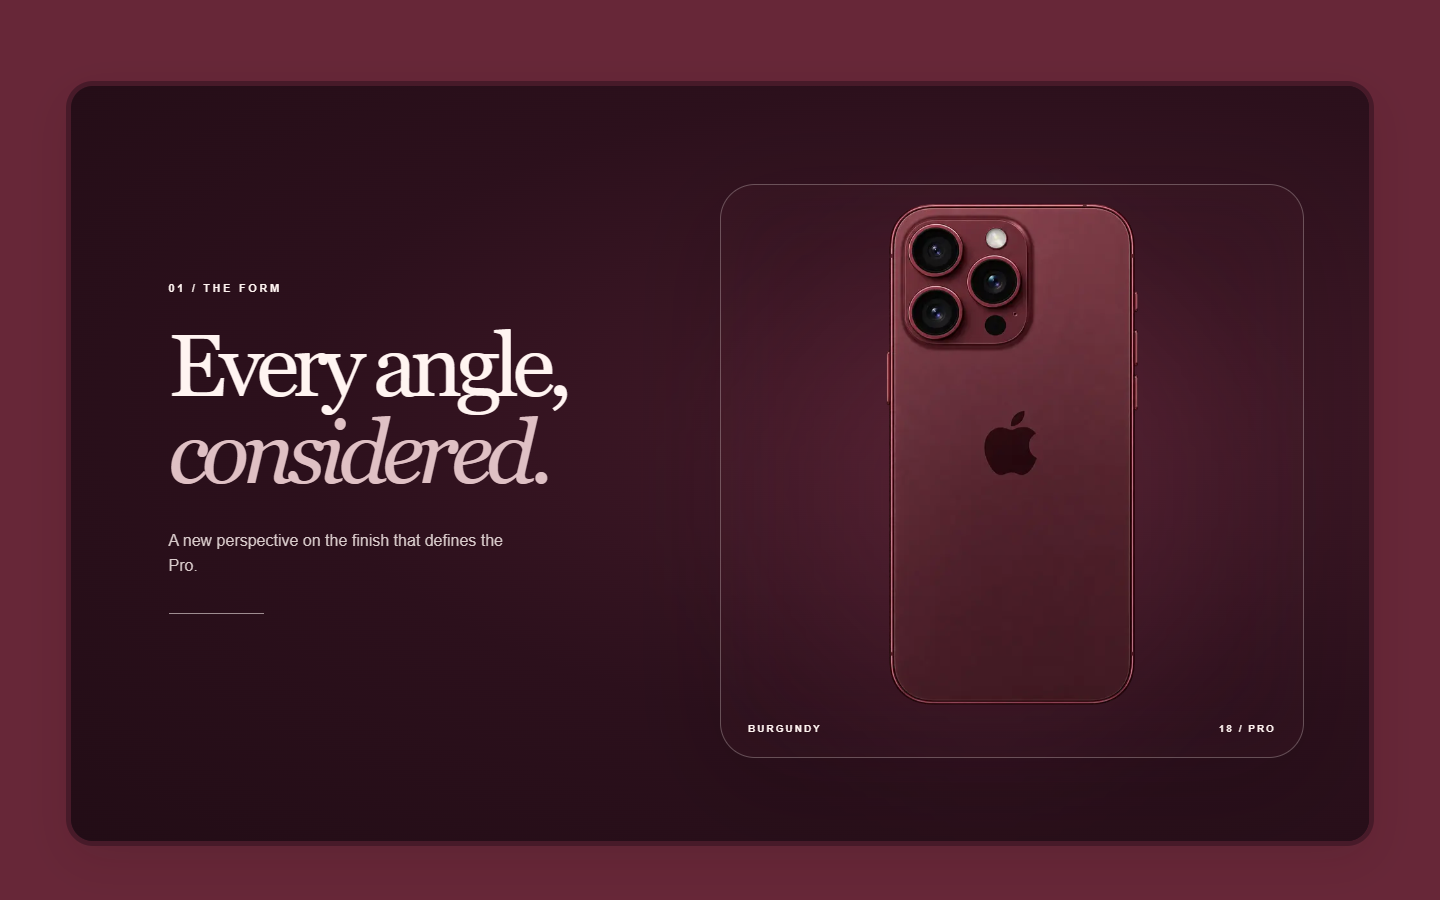
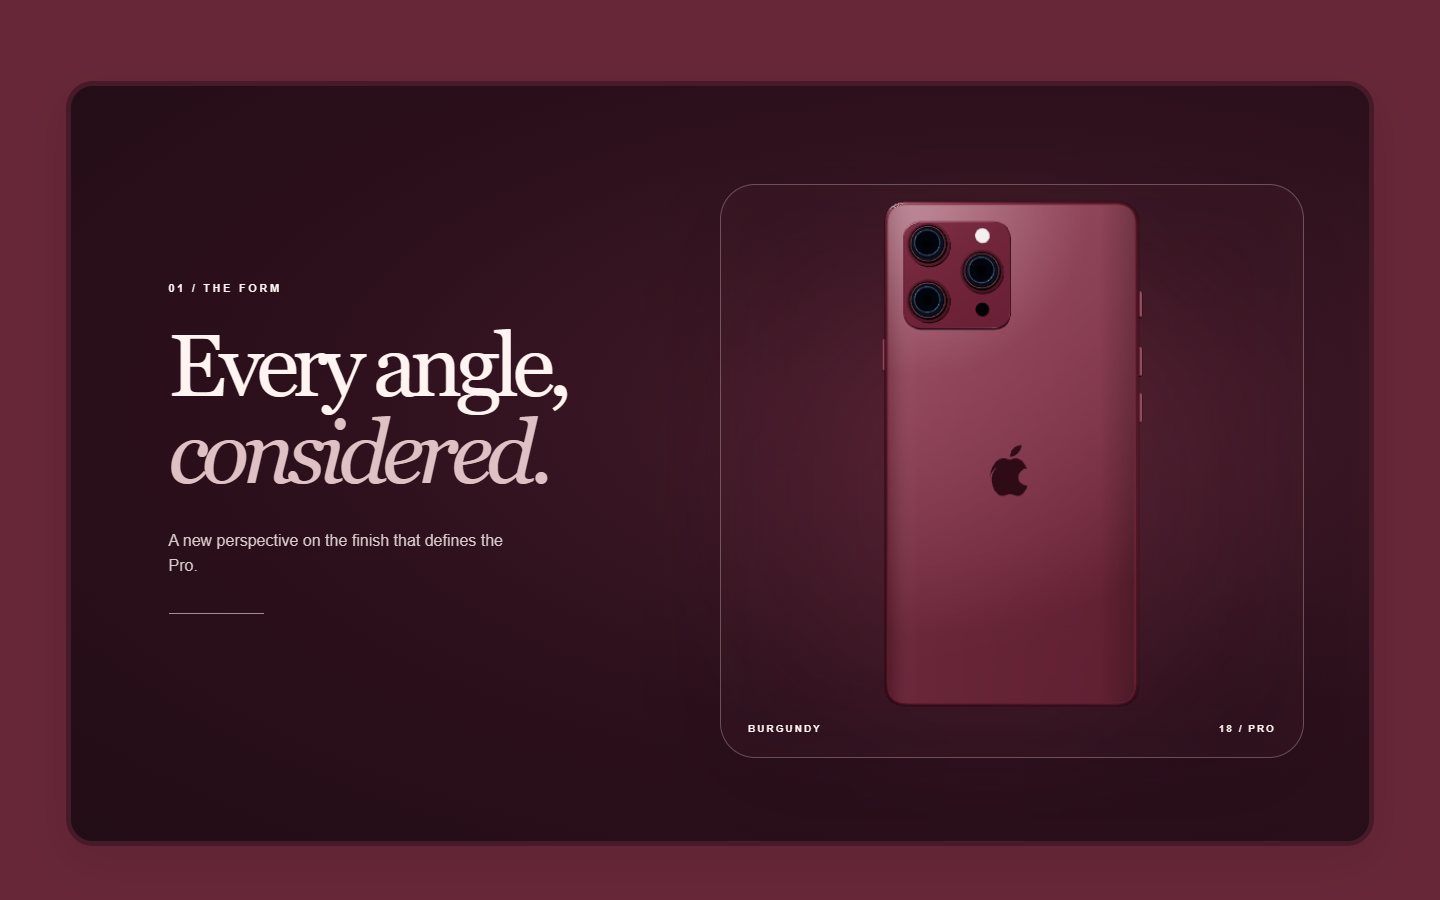
Document and preview 3D design sequence

Changed region(s): [[0.5938, 0.2178, 0.8125, 0.8089]]

diff --git a/README.md b/README.md
@@ -16,8 +16,8 @@ Open [http://localhost:3000](http://localhost:3000).
 - A burgundy curtain opens after connected welcome lettering draws and fades. The rock and main phone rise into view, followed by a 3.2-second carousel entrance that travels two card positions into a five-card arch.
 - Five phone colors autoplay around a continuous arch with two distinct cards on each side. Each change crossfades the phone and sends a soft ripple from its center; cards can also be selected directly.
 - The hero stays pinned during scrolling. Both phones retain the selected finish. The screen-facing phone slides left and fades behind the main phone, which moves right and turns into its display frame. Scrolling back reverses the sequence.
-- The pair is split into complementary CSS masks on a shared image canvas. Early in the scroll, a new transparent rear render for the selected color takes over within the same calibrated perspective. Its rear surface turns through a 38-degree yaw into a sharp, upright rear view. The five new renders are served at high image quality. This is a surface-based rendering, not a downloadable mesh model.
+- The opening pair uses transparent artwork. During the scroll, it hands off to one reusable Three.js phone model. Its rounded frame, rear glass, camera island, individual lenses, and side buttons are 3D geometry. The selected finish recolors the same model as it rotates 38 degrees into a rear view.
 - The layout stacks on smaller screens. Autoplay pauses during the scroll presentation and resumes when returning to the hero.
 - Reduced-motion preferences are respected.
 
-The original concept boards are in `design-concepts/`. The final scroll composition is in [design/scroll-final.png](design/scroll-final.png), with sequence notes in [design/README.md](design/README.md). The five new rear renders are `public/assets/iphone-rear-*-v2.png`. Phone renders and the mossy rock in `public/assets/` are transparent PNGs; lettering, cards, arch, and stage are built in SVG/CSS. The former overview, camera, finishes, and footer sections have been removed.
+The original concept boards are in `design-concepts/`. The final scroll composition is in [design/scroll-final.png](design/scroll-final.png), with sequence notes in [design/README.md](design/README.md). The 3D model is defined in `app/ThreePhone.tsx`. The earlier rear renders remain in `public/assets/` as design references. Opening phone artwork and the mossy rock are transparent PNGs; lettering, cards, arch, and stage are built in SVG/CSS. The former overview, camera, finishes, and footer sections have been removed.

diff --git a/design/README.md b/design/README.md
@@ -6,11 +6,11 @@ The sequence follows progress through the pinned hero:
 
 - The five-card arch fades away first.
 - Both phones begin in the selected finish, using complementary masks of the original pair image.
-- The screen-facing phone moves left and fades behind the main phone. A new selected-color rear render takes over early in the scroll while the original rear pixels remain underneath until the new surface is opaque.
+- The screen-facing phone moves left and fades behind the main phone. The opening pair then hands off to the reusable 3D model before it begins to rotate.
 - The phone gradually moves to the right and rotates from a rear three-quarter view to an upright rear view. The metal side rail narrows as the back turns toward the viewer, with no sideways roll.
 - The backdrop, display frame, and left-hand copy appear during the move, retaining the selected color theme.
 - The final composition holds for the last portion of the scroll. Scrolling upward reverses the presentation.
 
 On mobile, the copy sits above the display frame and the phone settles below it with a smaller rightward shift.
 
-Each of the five finishes has a newly generated 1024 × 1536 transparent rear render in `public/assets/iphone-rear-*-v2.png`. The artwork uses the same device pose, lenses, logo, and proportions. Each image's visible bounds are mapped to the same four phone vertices, so color changes preserve size and alignment. The original pair artwork carries the opening pose; its screen-facing phone moves left behind the rear phone. The new selected-color rear texture is layered over the original during the first portion of the scroll, then rotates through 38 degrees around the vertical axis and resolves into a square rear view. This is a surface-based rendering, not a downloadable mesh model. The earlier standalone front and rear renders are retained as assets but are no longer used by this sequence.
+The scroll phone is one procedural Three.js model in `app/ThreePhone.tsx`. Its rounded frame and back, raised camera island, three lens assemblies, flash, logo, and side buttons are separate meshes. Five material palettes and a subtle generated finish texture give the same geometry each selected color. The model turns 38 degrees around its vertical axis; the side stays attached and narrows naturally as it faces straight back. The earlier 1024 × 1536 transparent rear renders in `public/assets/iphone-rear-*-v2.png` remain as design references and are no longer used by the page.
